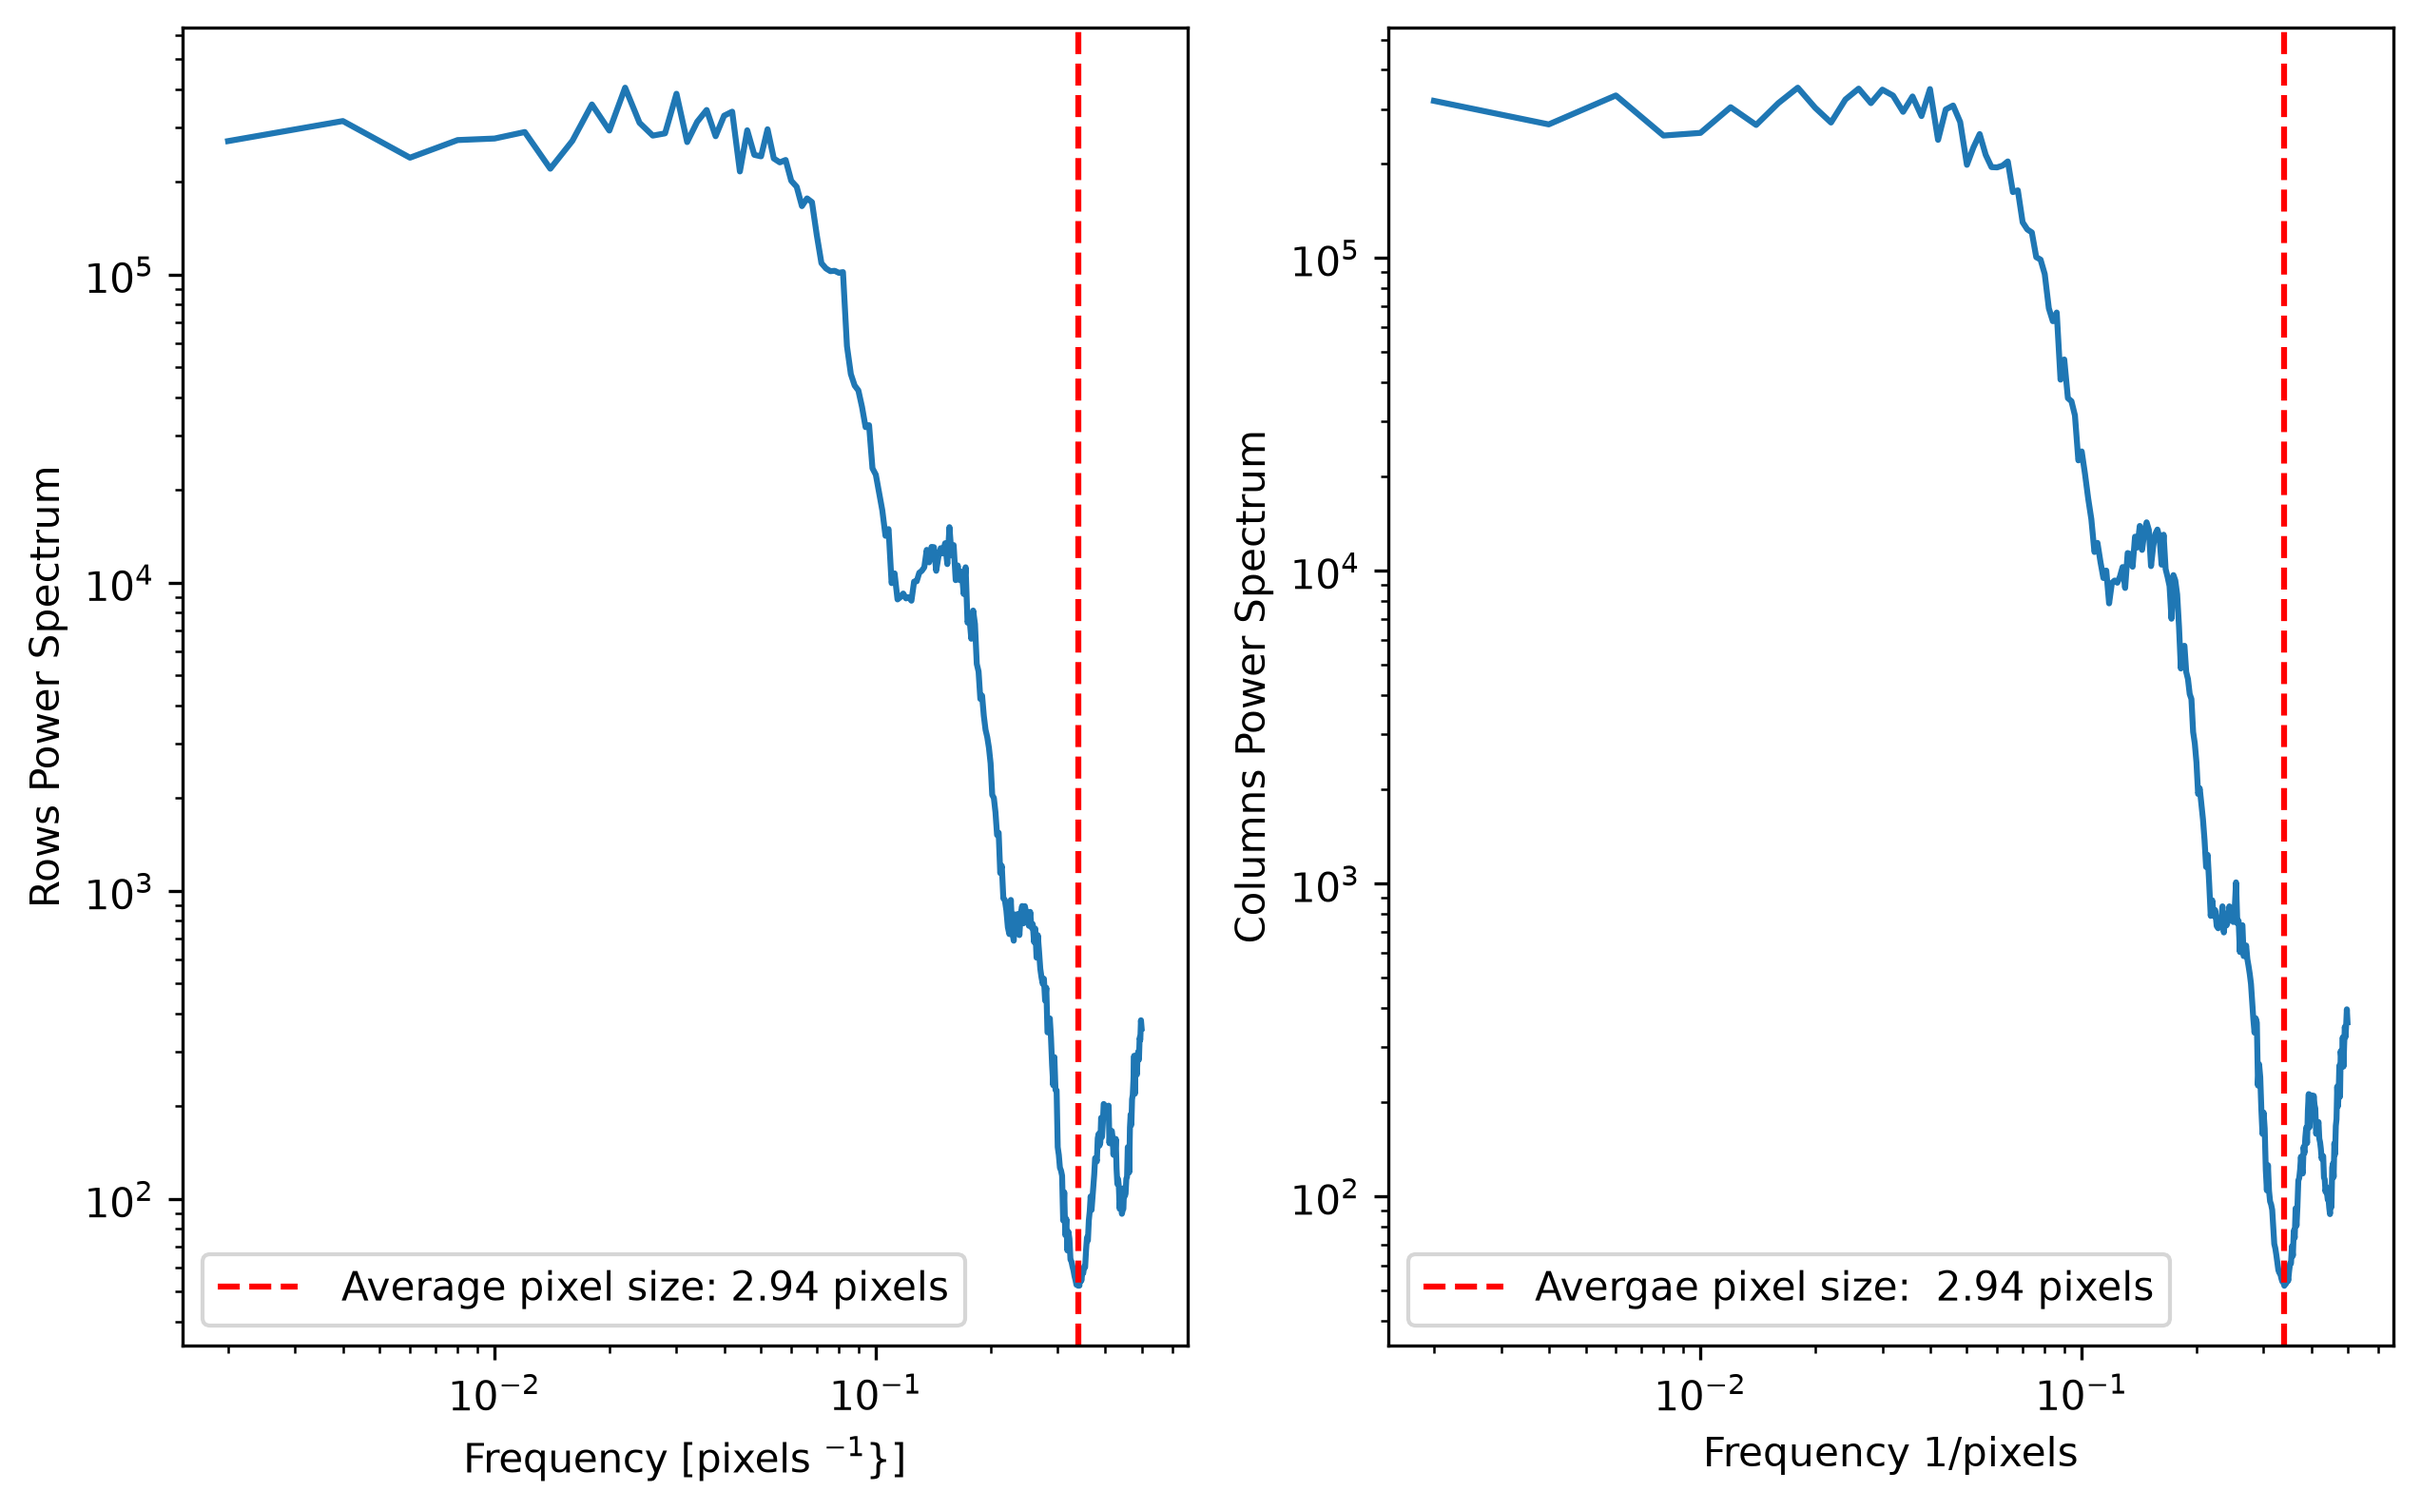
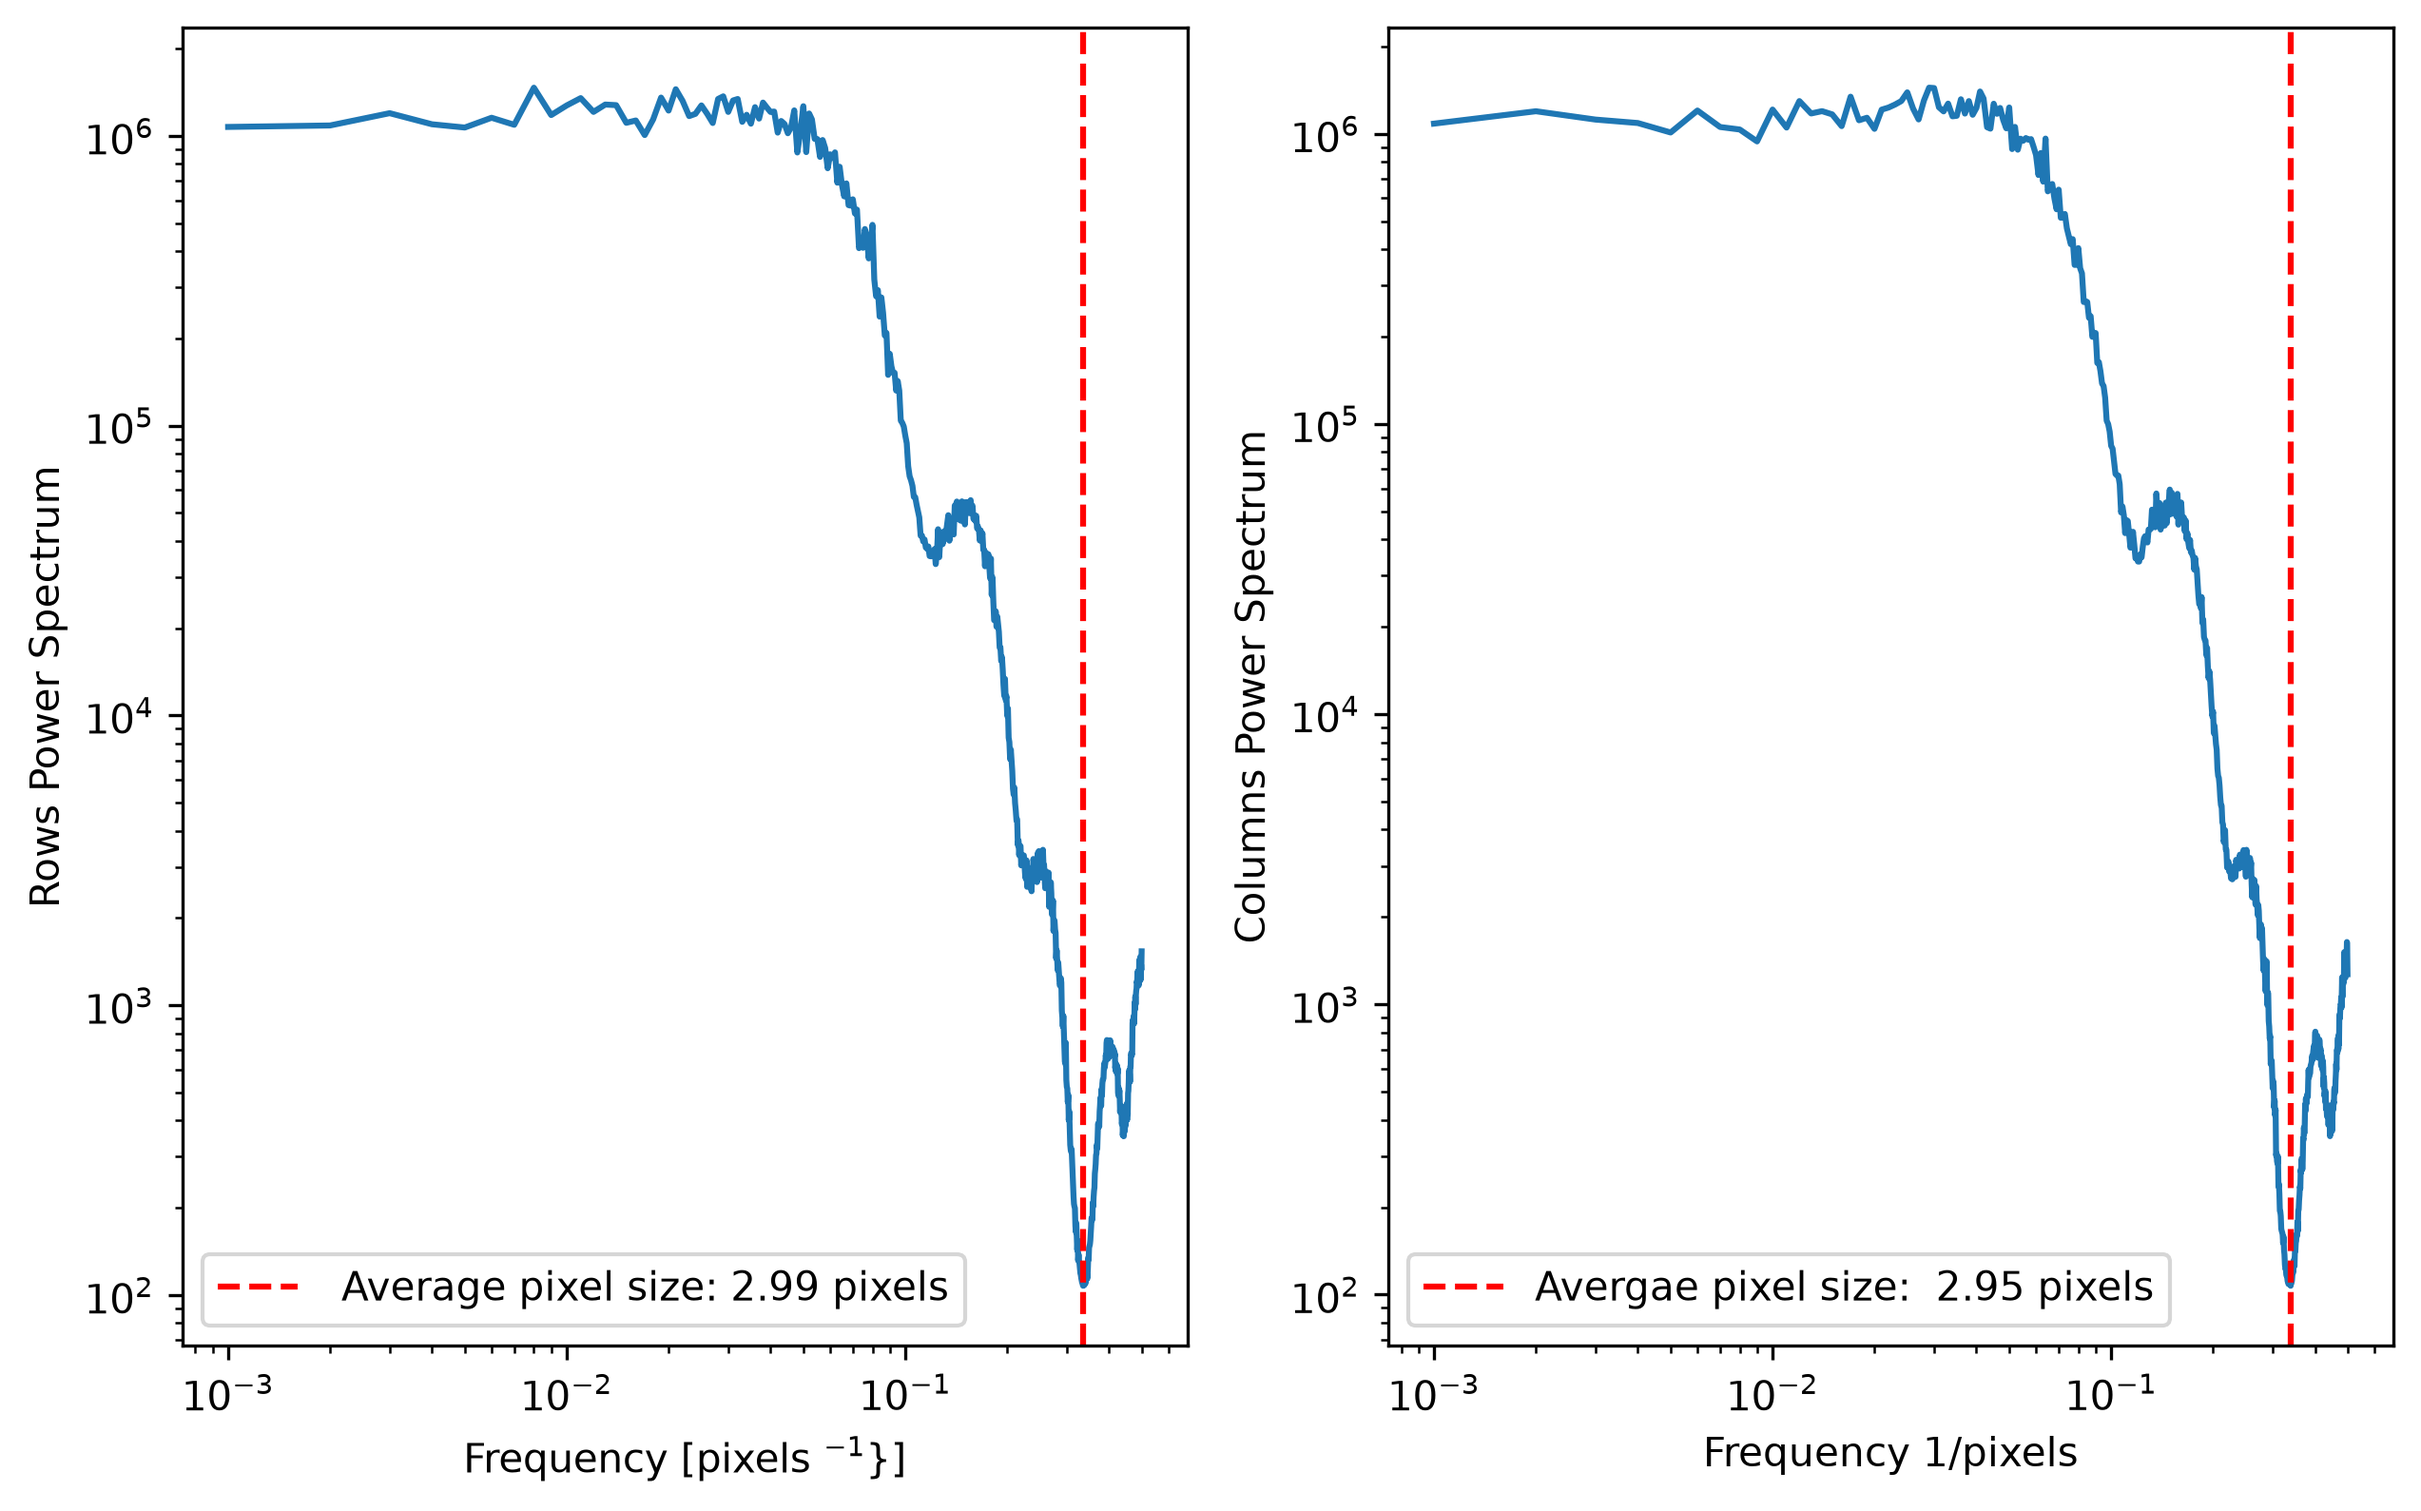
better example

diff --git a/src/examples/example_speckle_pattern.py b/src/examples/example_speckle_pattern.py
@@ -5,9 +5,9 @@ from pathlib import Path
 
 
 #Define image parameters 
-image_width = 500
+image_width = 1000
 
-image_height = 500
+image_height = 1000
 
 speckle_radius = 5 #pixels
 
